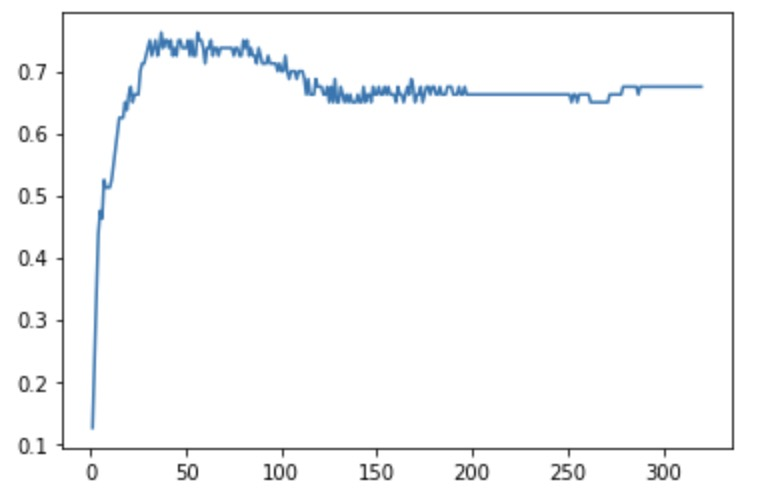
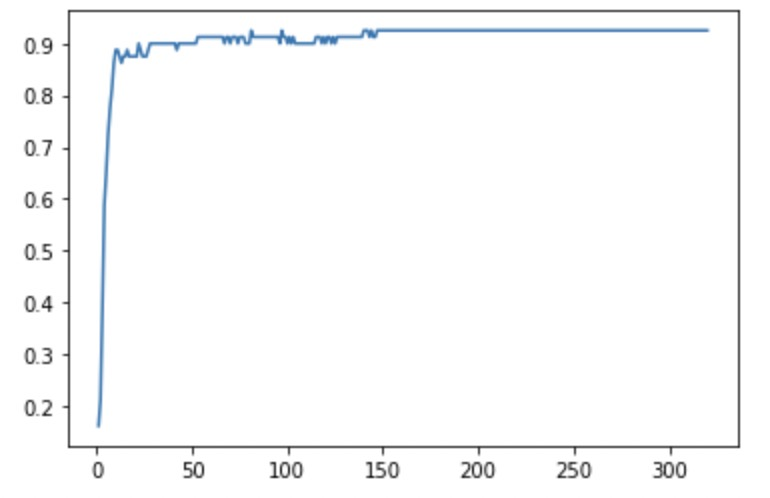
improve

Changed region(s): [[0.0, 0.0, 0.9662, 0.9639]]

diff --git a/pca.py b/pca.py
@@ -11,17 +11,24 @@ import numpy as np
 import pandas as pd
 import matplotlib.pyplot as plt
 
+from sklearn.decomposition import PCA
+from sklearn.metrics import zero_one_loss
+from sklearn.cluster import KMeans
+
+from sklearn.preprocessing import scale
+from sklearn.model_selection import train_test_split
+from sklearn.neighbors import KNeighborsClassifier
+from sklearn.metrics import accuracy_score
+
 """PCA and K-means cluster"""
 
 #using breast cancer data from sklearn dataset
 from sklearn.datasets import load_breast_cancer
-from sklearn.decomposition import PCA
 cancer = load_breast_cancer()
 cancer.data.shape
 
 scaled_features = scale(features)
 
-# Commented out IPython magic to ensure Python compatibility.
 #pca to 2 dimensions
 pca = PCA()
 pca.fit(scaled_features)
@@ -32,13 +39,9 @@ plt.ylim((0,1))
 plt.grid(True)
 plt.show()
 print("The first two principle components explain %s fraction of the total variance"
-#       % var_explained[1])
 print(var_explained[:9])
 
 #K-Means cluster
-from sklearn.metrics import zero_one_loss
-from sklearn.cluster import KMeans
-from sklearn.preprocessing import scale
 
 X = pca.transform(scaled_features)
 km = KMeans(n_clusters=2, random_state=0).fit(X)
@@ -59,11 +62,10 @@ plt.title('True clusters')
 plt.scatter(X[:,0],X[:,1],c=cancer.target)
 plt.show()
 
-"""PCA for image compression"""
+"""PCA for image compression and image identification"""
 
 # using fetch_olivetti_faces image from sklearn dataset
 from sklearn.datasets import fetch_olivetti_faces
-from sklearn.decomposition import PCA
 face = fetch_olivetti_faces()
 print(face.keys())
 face_data = face['data']
@@ -187,7 +189,7 @@ plt.imshow(face.data[sample_indx,:].reshape(64,64), cmap=plt.cm.gray, interpolat
 #The face rebuilt by using compressed face and eigenfaces
 plt.subplot(2,1,2)
 rebuild_101 = np.dot(transform_each_101, components_eigen_101)
-plt.imshow(rebuild_101[sample_indx,:].reshape(64,64), cmap=plt.cm.gray, interpolation='nearest')
+plt.imshow(rebuild_101[sample_indx,:].reshape(64,64), cmap = plt.cm.gray, interpolation = 'nearest')
 
 print ('explained variance ratio when 101 eigenface is ' , sum(pca.explained_variance_ratio_))
 
@@ -198,15 +200,15 @@ transform_each_201 = pca.transform(x)
 components_eigen_201 = pca.components_
 sample_indx = 1 #np.random.randint(0,len(face.data)) 
 
-plt.suptitle("201 eigenface",size=16) 
+plt.suptitle("201 eigenface",size = 16) 
 #Ture face
 plt.subplot(2,1,1)
-plt.imshow(face.data[sample_indx,:].reshape(64,64), cmap=plt.cm.gray, interpolation='nearest')
+plt.imshow(face.data[sample_indx,:].reshape(64,64), cmap = plt.cm.gray, interpolation ='nearest')
 
 #The face rebuilt by using compressed face and eigenfaces
 plt.subplot(2,1,2)
 rebuild_201 = np.dot(transform_each_201, components_eigen_201)
-plt.imshow(rebuild_201[sample_indx,:].reshape(64,64), cmap=plt.cm.gray, interpolation='nearest')
+plt.imshow(rebuild_201[sample_indx,:].reshape(64,64), cmap = plt.cm.gray, interpolation ='nearest')
 
 print ('explained variance ratio when 201 eigenface is ' , sum(pca.explained_variance_ratio_))
 
@@ -217,32 +219,42 @@ transform_each_400 = pca.transform(x)
 components_eigen_400 = pca.components_
 sample_indx = 1 #np.random.randint(0,len(face.data)) 
 
-plt.suptitle("400 eigenface",size=16) 
+plt.suptitle("400 eigenface",size = 16) 
 #Ture face
 plt.subplot(2,1,1)
-plt.imshow(face.data[sample_indx,:].reshape(64,64), cmap=plt.cm.gray, interpolation='nearest')
+plt.imshow(face.data[sample_indx,:].reshape(64,64), cmap = plt.cm.gray, interpolation ='nearest')
 
 #The face rebuilt by using compressed face and eigenfaces
 plt.subplot(2,1,2)
 rebuild_400 = np.dot(transform_each_400, components_eigen_400)
-plt.imshow(rebuild_400[sample_indx,:].reshape(64,64), cmap=plt.cm.gray, interpolation='nearest')
+plt.imshow(rebuild_400[sample_indx,:].reshape(64,64), cmap = plt.cm.gray, interpolation ='nearest')
 
 print ('explained variance ratio when 400 eigenface is ' , sum(pca.explained_variance_ratio_))
 
-from sklearn.model_selection import train_test_split
-from sklearn.neighbors import KNeighborsClassifier
-from sklearn.metrics import accuracy_score
-X_train,X_test,y_train,y_test=train_test_split(x,face.target,test_size = 0.2, random_state=0)
-components_pca=pd.DataFrame(columns=["n_components","knn_score"])
-for i in range(320):
-    pca=PCA(n_components=i+1,random_state=0).fit(X_train)
-    X_train_pca=pca.transform(X_train)
-    X_test_pca=pca.transform(X_test)   
-    knn=KNeighborsClassifier(n_neighbors=10)
+# image identification
+X_train,X_test,y_train,y_test = train_test_split(x, face.target, test_size = 0.2, random_state=0)
+components_pca_n = pd.DataFrame(columns=["n_components","knn_score"])
+for i in range(20):  #find the best hyperparameter for this model
+    pca = PCA(n_components = 38,random_state = 0)
+    pca.fit(X_train)
+    X_train_pca = pca.transform(X_train)
+    X_test_pca = pca.transform(X_test)   
+    knn = KNeighborsClassifier(n_neighbors = i)
     knn.fit(X_train_pca,y_train)
-    knn_predict=knn.predict(X_test_pca)
-    components_pca=components_pca.append([{"n_components":i+1,"knn_score":accuracy_score(y_test,knn_predict)}], ignore_index=True)
-plt.plot(components_pca["n_components"],components_pca["knn_score"], label = 'knn score')
+    knn_predict = knn.predict(X_test_pca)
+    components_pca_n = components_pca_n.append([{"n_components":i+1, "knn_score":accuracy_score(y_test, knn_predict)}], ignore_index=True)
+plt.plot(components_pca_n["n_components"], components_pca_n["knn_score"])
 
-components_pca[components_pca['knn_score']==components_pca['knn_score'].max()]
+components_pca = pd.DataFrame(columns=["n_components","knn_score"])
+for i in range(320):  #the size of pca cannot larger than the size of samples
+    pca = PCA(n_components = i+1,random_state = 0)
+    pca.fit(X_train)
+    X_train_pca = pca.transform(X_train)
+    X_test_pca = pca.transform(X_test)   
+    knn = KNeighborsClassifier(n_neighbors = 1)
+    knn.fit(X_train_pca,y_train)
+    knn_predict = knn.predict(X_test_pca)
+    components_pca = components_pca.append([{"n_components":i+1, "knn_score":accuracy_score(y_test, knn_predict)}], ignore_index=True)
+plt.plot(components_pca["n_components"], components_pca["knn_score"])
 
+components_pca[components_pca['knn_score'] == components_pca['knn_score'].max()]
